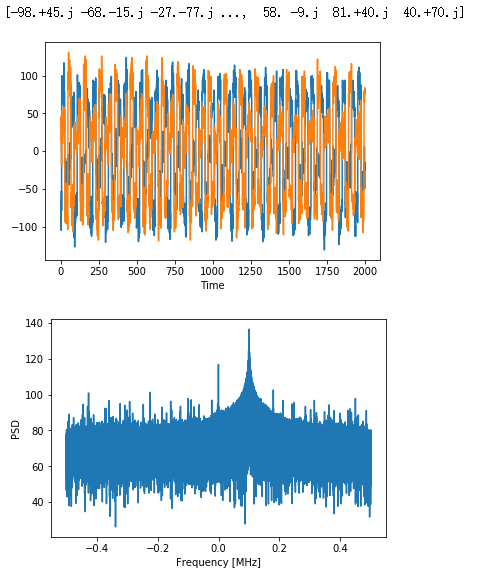
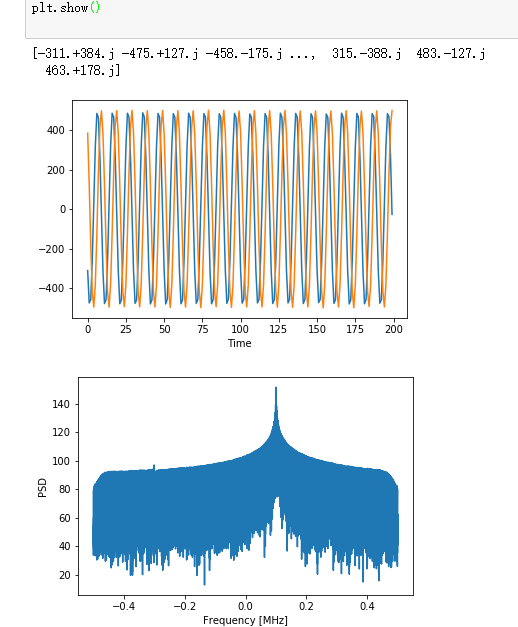
Update README

diff --git a/README.md b/README.md
@@ -40,7 +40,8 @@ In this section, I will briefly introduce how to make PYNQ SD card Image for ANT
 	```
 
 - Build the SD card Image
-Now you can build the image from scratch, you can either build from source code or build from offline root file system. I would recommend the second way.
+  
+  Now you can build the image from scratch, you can either build from source code or build from offline root file system. I would recommend the second way.
 	- Build from offline rootfs 
 	You can download the offline PYNQ rootfs from this link: https://www.xilinx.com/member/forms/download/xef.html?filename=pynq_rootfs_arm_v2.4.zip.
 	You can unzip this file to a folder and start to build the image. For example
@@ -57,6 +58,14 @@ Now you can build the image from scratch, you can either build from source code 
         make BOARDS=antsdr
         ```
 	You can find the output image **antsdr-2.4.img** in the **sdbuild/output** folder.
+
+- Trouble shutting
+  - if the result returns a environment error, this could be caused by the petalinux environment settings.<br>
+  you should configure the dash.
+  ```
+    sudo dpkg-reconfigure dash    
+    (then choose no)
+  ```
 
 ## Setup the PYNQ for antsdr
 
@@ -351,8 +360,8 @@ f = np.linspace(sample_rate/-2, sample_rate/2, len(psd))
 
 # Plot time domain
 plt.figure(0)
-plt.plot(np.real(rx_samples[::50]))
-plt.plot(np.imag(rx_samples[::50]))
+plt.plot(np.real(rx_samples[:200:1]))
+plt.plot(np.imag(rx_samples[:200:1]))
 plt.xlabel("Time")
 
 # Plot freq domain
